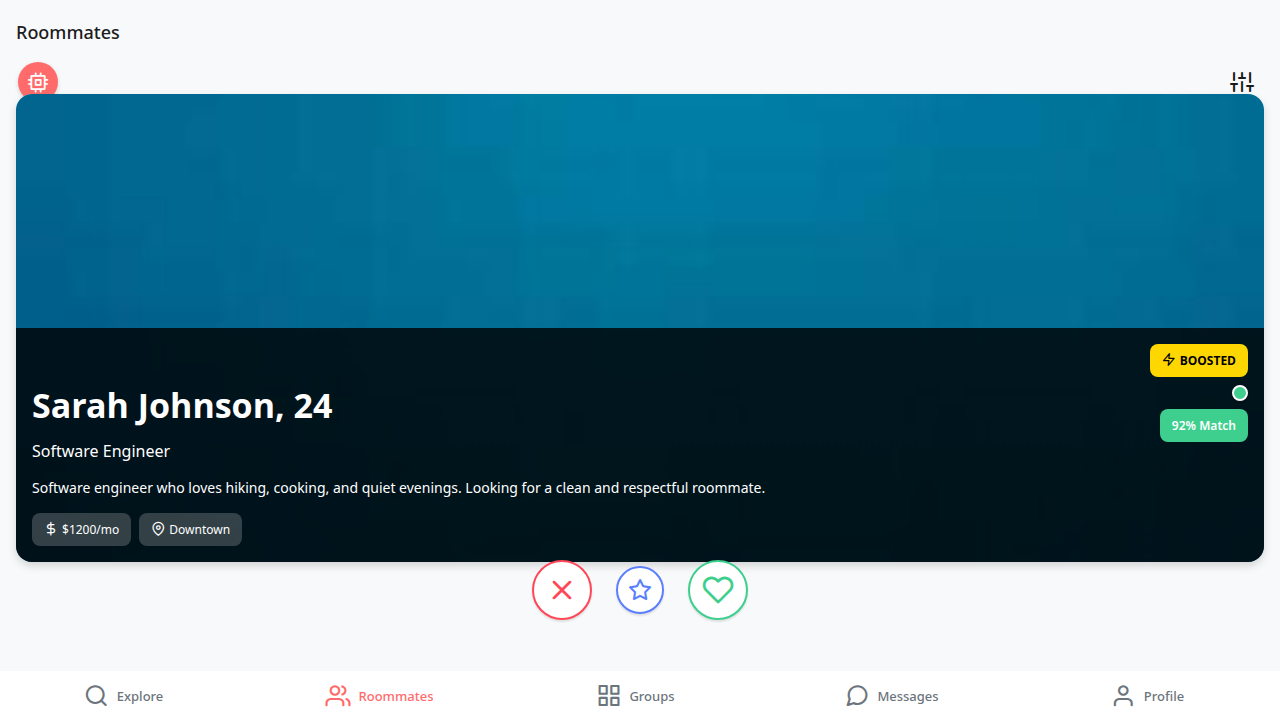
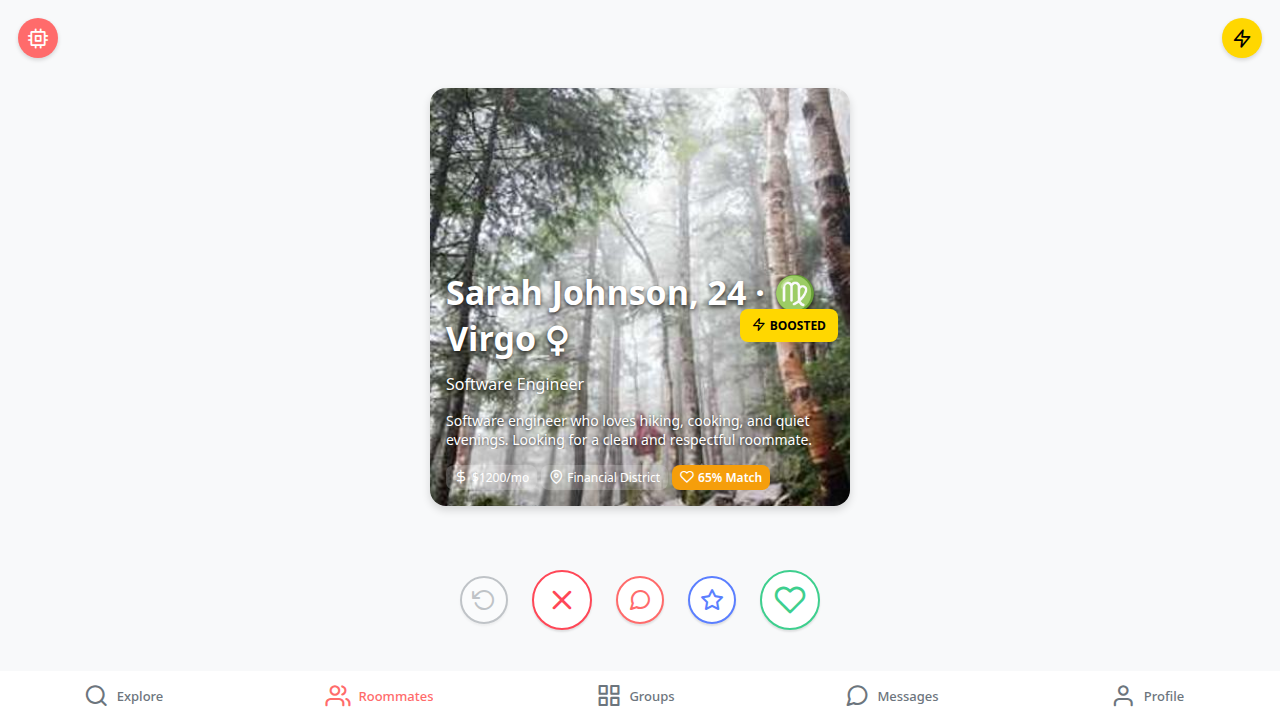
Add zodiac signs to user profiles and display them on cards
Update UI components and mock data to include and display zodiac signs for roommates, group members, and hosts.

Replit-Commit-Author: Agent
Replit-Commit-Session-Id: 28da90d4-aa8c-42c4-b36d-a1821aacee1f
Replit-Commit-Checkpoint-Type: full_checkpoint
Replit-Commit-Event-Id: ea688abb-8d8f-4320-b1f6-9e01389c342f
Replit-Commit-Screenshot-Url: https://storage.googleapis.com/screenshot-production-us-central1/060a21f1-f8f3-4dad-b53d-b09bb41938c5/28da90d4-aa8c-42c4-b36d-a1821aacee1f/KcLXdyl

diff --git a/screens/renter/GroupsScreen.tsx b/screens/renter/GroupsScreen.tsx
@@ -14,6 +14,7 @@ import { useFocusEffect, useNavigation } from '@react-navigation/native';
 import { useSafeAreaInsets } from 'react-native-safe-area-context';
 import { mockRoommateProfiles } from '../../utils/mockData';
 import { getGenderSymbol, calculateCompatibility } from '../../utils/matchingAlgorithm';
+import { getZodiacSymbol } from '../../utils/zodiacUtils';
 
 const { width: SCREEN_WIDTH, height: SCREEN_HEIGHT } = Dimensions.get('window');
 const CARD_WIDTH = SCREEN_WIDTH - Spacing.xxl;
@@ -681,7 +682,7 @@ export const GroupsScreen = () => {
             {memberProfiles.map(profile => (
               <View key={profile.id} style={styles.memberRow}>
                 <ThemedText style={Typography.body}>
-                  {profile.name || 'Unknown'}{profile.age ? `, ${profile.age}` : ''} {getGenderSymbol(profile.gender)}
+                  {profile.name || 'Unknown'}{profile.age ? `, ${profile.age}` : ''}{profile.zodiacSign ? ` · ${getZodiacSymbol(profile.zodiacSign)} ${profile.zodiacSign}` : ''} {getGenderSymbol(profile.gender)}
                 </ThemedText>
                 {isCreator && profile.id !== user?.id ? (
                   <Pressable onPress={() => handleRemoveMember(group.id, profile.id, profile.name || 'Member')}>
@@ -701,7 +702,7 @@ export const GroupsScreen = () => {
             {pendingProfiles.map(profile => (
               <View key={profile.id} style={styles.pendingRow}>
                 <ThemedText style={Typography.body}>
-                  {profile.name || 'Unknown'}{profile.age ? `, ${profile.age}` : ''} {getGenderSymbol(profile.gender)}
+                  {profile.name || 'Unknown'}{profile.age ? `, ${profile.age}` : ''}{profile.zodiacSign ? ` · ${getZodiacSymbol(profile.zodiacSign)} ${profile.zodiacSign}` : ''} {getGenderSymbol(profile.gender)}
                 </ThemedText>
                 <View style={styles.pendingActions}>
                   <Pressable
@@ -1359,7 +1360,7 @@ export const GroupsScreen = () => {
                       return profile ? (
                         <View key={memberId} style={styles.memberRow}>
                           <ThemedText style={Typography.body}>
-                            {profile.name}{profile.age ? `, ${profile.age}` : ''} {getGenderSymbol(profile.gender)}
+                            {profile.name}{profile.age ? `, ${profile.age}` : ''}{profile.zodiacSign ? ` · ${getZodiacSymbol(profile.zodiacSign)} ${profile.zodiacSign}` : ''} {getGenderSymbol(profile.gender)}
                           </ThemedText>
                         </View>
                       ) : null;
@@ -1487,7 +1488,7 @@ export const GroupsScreen = () => {
                 ) : null}
                 
                 <View style={styles.memberProfileSection}>
-                  <ThemedText style={[Typography.h2]}>{selectedMember.name}, {selectedMember.age}</ThemedText>
+                  <ThemedText style={[Typography.h2]}>{selectedMember.name}, {selectedMember.age}{selectedMember.zodiacSign ? ` · ${getZodiacSymbol(selectedMember.zodiacSign)} ${selectedMember.zodiacSign}` : ''}</ThemedText>
                   <ThemedText style={[Typography.body, { color: theme.textSecondary, marginTop: Spacing.xs }]}>
                     {selectedMember.occupation}
                   </ThemedText>

diff --git a/screens/renter/ExploreScreen.tsx b/screens/renter/ExploreScreen.tsx
@@ -13,6 +13,7 @@ import { Property, PropertyFilter, User, RoommateProfile } from '../../types/mod
 import { useSafeAreaInsets } from 'react-native-safe-area-context';
 import * as Haptics from 'expo-haptics';
 import { formatMoveInDate, calculateCompatibility, getMatchQualityColor, getGenderSymbol, formatLocation } from '../../utils/matchingAlgorithm';
+import { getZodiacSymbol } from '../../utils/zodiacUtils';
 import { NEIGHBORHOODS, getAllCities } from '../../utils/locationData';
 
 const COMMON_AMENITIES = [
@@ -865,7 +866,10 @@ export const ExploreScreen = () => {
                             if (selectedProperty.hostProfileId) {
                               const hostUser = hostProfiles.get(selectedProperty.hostProfileId);
                               const age = hostUser?.age;
-                              return age ? `${selectedProperty.hostName}, ${age}` : selectedProperty.hostName;
+                              const zodiacSign = hostUser?.zodiacSign;
+                              const ageText = age ? `, ${age}` : '';
+                              const zodiacText = zodiacSign ? ` · ${getZodiacSymbol(zodiacSign)} ${zodiacSign}` : '';
+                              return `${selectedProperty.hostName}${ageText}${zodiacText}`;
                             }
                             return selectedProperty.hostName;
                           })()}

diff --git a/utils/mockData.ts b/utils/mockData.ts
@@ -376,6 +376,7 @@ export const mockRoommateProfiles: RoommateProfile[] = [
     id: '1',
     name: 'Sarah Johnson',
     age: 24,
+    zodiacSign: 'Virgo',
     gender: 'female',
     bio: 'Software engineer who loves hiking, cooking, and quiet evenings. Looking for a clean and respectful roommate.',
     occupation: 'Software Engineer',
@@ -403,6 +404,7 @@ export const mockRoommateProfiles: RoommateProfile[] = [
     id: '2',
     name: 'Michael Chen',
     age: 26,
+    zodiacSign: 'Leo',
     gender: 'male',
     bio: 'Marketing professional, gym enthusiast, and weekend adventurer. Love to host small gatherings!',
     occupation: 'Marketing Manager',
@@ -431,6 +433,7 @@ export const mockRoommateProfiles: RoommateProfile[] = [
     id: '3',
     name: 'Emily Rodriguez',
     age: 23,
+    zodiacSign: 'Pisces',
     gender: 'female',
     bio: 'Graphic designer working from home. Cat mom, plant lover, and yoga enthusiast.',
     occupation: 'Graphic Designer',
